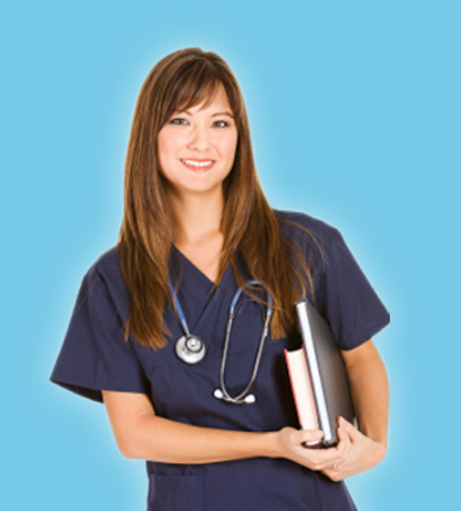
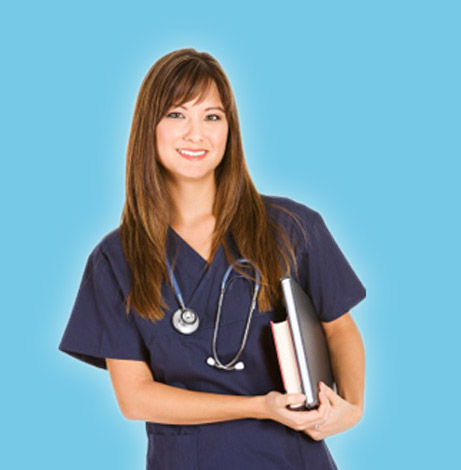
mobile version

Changed region(s): [[0.0911, 0.0894, 0.8807, 1.0], [0.3341, 0.8043, 0.3948, 0.834]]

diff --git a/assets/css/main.css b/assets/css/main.css
@@ -105,6 +105,16 @@ h3 {
         z-index: 999;
     }
 
+    .loginForgotPass a{
+        display: none;
+    }
+
+    .loginForgotPass span{
+        display: block;
+    }
+
+
+
     #topNav {
         display: none;
     }
@@ -150,7 +160,12 @@ h3 {
 
 -----------------------------------------------------------*/
 
-#bannerMd, #bannerSm {
+.loginForgotPass span{
+    display: none;
+}
+
+
+#bannerMd, #bannerMd2, #bannerSm {
     display: none;
 }
 
@@ -176,7 +191,7 @@ h3 {
 #signUpBtn span:before {
     border-left: 2px solid #ffffff;
     padding: 25px;
-    margin-left: 70px;
+    width: 30px;
 }
 
 #bottomMain {
@@ -191,6 +206,7 @@ h3 {
     #bannerL {
         display: none;
     }
+
 }
 
 @media screen and (max-width: 1199px) {
@@ -203,7 +219,20 @@ h3 {
     }
 }
 
+@media screen and (max-width: 991px) {
+    #bannerL {
+        display: none;
+    }
+
+    #bannerMd2 {
+        display: block;
+    }
+}
+
 @media screen and (max-width: 767px) {
+    .loginForgotPass span {
+        display: block;
+    }
 
     #bannerMd {
         display: block;
@@ -212,6 +241,7 @@ h3 {
     #bannerLg, #bannerSm {
         display: none;
     }
+
 
 }
 
@@ -231,9 +261,17 @@ h3 {
                    TOP MAIN SECTION
 
 -----------------------------------------------------------*/
+#signUpTextSpan {
+    text-align: center;
+}
+
+#signUpSpan {
+    width: 30px;
+    float: right;
+}
 
 #topMain {
-    margin-top: 18px;
+    margin-top: 30px;
 }
 
 #topMain .leftCol {
@@ -289,7 +327,7 @@ input[type=text]#usrName {
 
 #signUp .btn-primary {
     -o-transition: all 0.4s;
-    padding: 20px 85px;
+    padding: 20px 45px;
     width: 100%;
     margin: 11px 0;
     font-size: 1.2rem;
@@ -529,9 +567,19 @@ input[type=text]#usrName {
     #footerDiv {
         text-align: center;
     }
+
+    #topMain .leftCol {
+        padding: 24px;
+    }
 }
 
 @media (max-width: 991px) {
+
+    #bottomMain {
+        margin-top: 0;
+        padding-left: 0;
+    }
+
     #bottomMain .planBox {
         width: 100%;
         margin: 20px 0 !important;
@@ -540,7 +588,7 @@ input[type=text]#usrName {
     }
 
     #signUp .btn-primary {
-        padding: 20px 70px;
+        padding: 20px 45px;
     }
 
     .introDiv {
@@ -580,14 +628,18 @@ input[type=text]#usrName {
         height: auto;
     }
 
-
     .nav > li > a {
         padding: 15px 10px;
     }
 
 }
 
-
+@media (max-width: 767px) {
+    #topMain .leftCol {
+        padding: 40px;
+        margin: 0 15px;
+    }
+}
 
 .more {
     display: none;

diff --git a/index.html b/index.html
@@ -106,6 +106,7 @@
                         <div id="loginDiv">
                             <div class="loginForgotPass">
                                 <a href="#">Forgot password?</a>
+                                <span>Already have an account?</span>
                             </div>
                             <div class="btnLogin">
                                 <button class="btn btn-lg btn-success pull-right">Log in</button>
@@ -116,7 +117,8 @@
                     <!-- / mbrDiv -->
                     <div id="signUp">
                         <button class="btn-primary btn" id="signUpBtn">
-                            Sign Up <span id="signUpSpan" class="glyphicon glyphicon-menu-right"></span>
+                            <span id="signUpTextSpan"> Sign Up</span>
+                            <span id="signUpSpan" class="glyphicon glyphicon-menu-right"></span>
                         </button>
                     </div>
                     <div id="sample">
@@ -136,7 +138,9 @@
                     <div class="mainBanner">
                         <img id="bannerLg" src="assets/imgs/banner-desktop.png" width="780" height="470" alt=""
                              class="img-responsive">
-                        <img id="bannerL" src="assets/imgs/gpbanner_461x511.png" width="461"  height="511" alt=""
+                        <img id="bannerL" src="assets/imgs/gpbanner_461x570.jpg" width="461"  height="470" alt=""
+                             class="img-responsive">
+                        <img id="bannerMd2" src="assets/imgs/banner-medium-345x448.jpg" width="362" height="470" alt=""
                              class="img-responsive">
                         <img id="bannerMd" src="assets/imgs/banner-tablet.png" width="362" height="445" alt=""
                              class="img-responsive">

diff --git a/vendors/css/offcanvas/offcanvas.css b/vendors/css/offcanvas/offcanvas.css
@@ -24,10 +24,10 @@ body.slide-active {
     position: relative;
     line-height: 0;
     float: right;
-    margin: 0;
+    margin: 10px 0;
     width: 30px;
     height: 40px;
-    padding: 10px 0 0 0;
+    padding:0;
     border: 0;
     background: transparent;
 }
